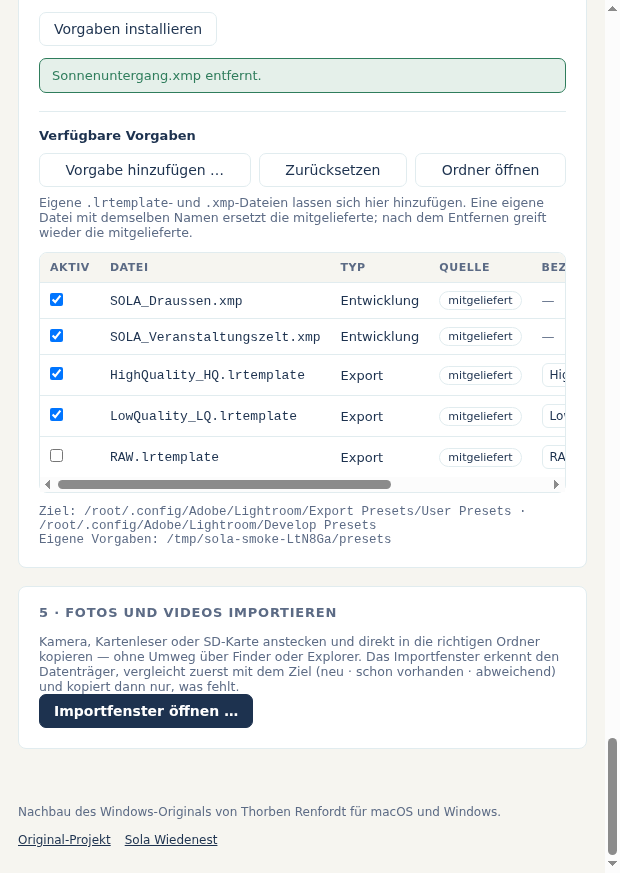
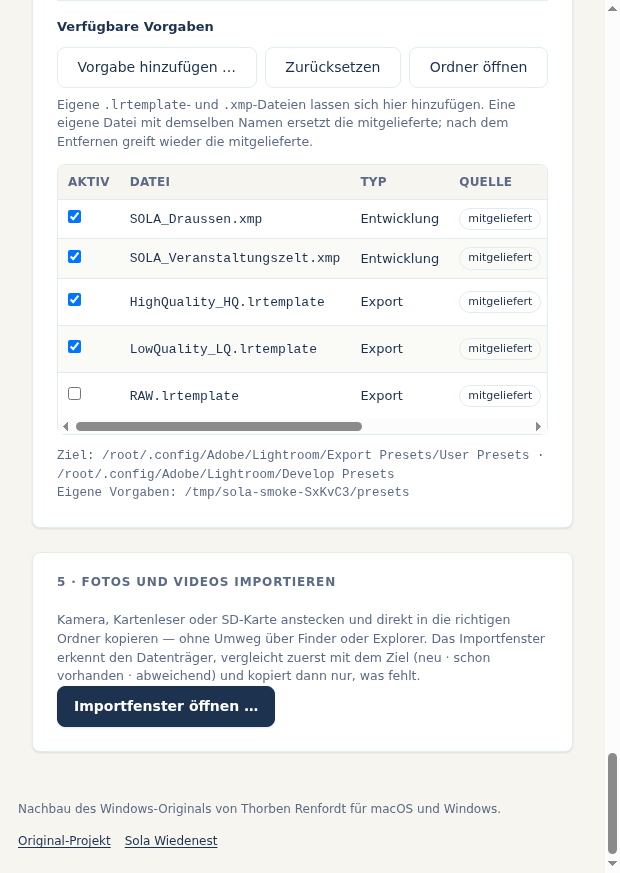
UI-Feinschliff: Spacing-System, moderne Details, Barrierefreiheit
Design-Durchgang über beide Fenster, weiter auf Basis der Lars-Zumpe-CI:

* Konsistentes 4-px-Spacing-System (Tokens), mehr Luft zwischen Karten und
  Abschnitten, einheitliche Feld- und Button-Höhen (40 px), dezente
  Karten-Schatten, weiche Übergänge.
* Barrierefreiheit (WCAG AA):
  - Sichtbarer, konsistenter Fokusring auf allem Bedienbaren; auf dem dunklen
    Kopf hell, sonst kräftiges Blau.
  - Dunklere Text-Töne für Warnung/Erfolg/Fehler, weil das CI-Amber als Text
    kein AA erreicht; Markenfarbe bleibt für Rahmen und Akzente.
  - Statusregionen (Fortschritt, Meldungen) als aria-live; Tabellenkopf mit
    scope; Aktionsspalte per aria-label benannt; Geräteliste als Gruppe.
  - prefers-reduced-motion abgeschaltet für Animationen.
* Kompakte Kontexte (Namensfelder, Tabellenzellen) behalten schlanke Höhen.
* Seitliches Seiten-Scrollen unterbunden; breite Tabellen scrollen selbst.

Tests und Smoke grün, inkl. der Prüfungen auf kein Seitwärtsscrollen bei
1180/760/620 px.

Claude-Session: https://claude.ai/code/session_012cgrnNFUHDFYyNKqoXLqbx

diff --git a/src/renderer/styles.css b/src/renderer/styles.css
@@ -26,10 +26,29 @@
   --akzent-hell: var(--eis);
   --warnung: #c8892b;
   --warnung-hell: #fbf0de;
+  --warnung-text: #8a5510; /* für Text: Amber selbst erreicht kein AA */
   --fehler: #b04a3f;
   --fehler-hell: #f7e7e4;
+  --fehler-text: #8f382e;
   --erfolg: #2f7d5c;
   --erfolg-hell: #e5f0ea;
+  --erfolg-text: #216046;
+
+  /* Spacing-Skala (4-px-Raster) */
+  --s-1: 4px;
+  --s-2: 8px;
+  --s-3: 12px;
+  --s-4: 16px;
+  --s-5: 20px;
+  --s-6: 24px;
+  --s-8: 32px;
+
+  /* Fokus, Schatten, Übergänge */
+  --fokus: #1d5fbf;
+  --schatten: 0 1px 2px rgba(19, 32, 64, 0.06), 0 1px 3px rgba(19, 32, 64, 0.05);
+  --schatten-hover: 0 2px 6px rgba(19, 32, 64, 0.10), 0 3px 12px rgba(19, 32, 64, 0.08);
+  --tempo: 0.15s;
+
   --radius: 8px;
   --schrift: 'Public Sans', -apple-system, BlinkMacSystemFont, "Segoe UI", Roboto, system-ui, sans-serif;
   --mono: "SF Mono", ui-monospace, SFMono-Regular, Menlo, Consolas, "Liberation Mono", monospace;
@@ -37,6 +56,12 @@
 
 * {
   box-sizing: border-box;
+}
+
+/* Ein Desktop-Fenster scrollt nie seitlich – breite Inhalte (z. B. die
+   Vorgabentabelle) bekommen ihre eigene, waagerechte Bildlaufleiste. */
+html {
+  overflow-x: hidden;
 }
 
 body {
@@ -821,4 +846,263 @@ fieldset {
 .kachel {
   background: #fff;
   border-color: var(--eis);
+}
+
+/* ========================================================================= *
+ *  Modernisierung & Barrierefreiheit (WCAG AA)                              *
+ *  Feinschliff für Abstände, Fokus, Kontrast und Bedienbarkeit.            *
+ * ========================================================================= */
+
+body {
+  line-height: 1.5;
+  text-rendering: optimizeLegibility;
+}
+
+::selection {
+  background: var(--eis);
+  color: var(--navy);
+}
+
+/* Sichtbarer, konsistenter Fokusring auf allem Bedienbaren – Grundlage der
+   Tastaturbedienung. Auf dem dunklen Kopf hell, sonst kräftiges Blau. */
+a:focus-visible,
+button:focus-visible,
+input:focus-visible,
+select:focus-visible,
+summary:focus-visible,
+[tabindex]:focus-visible,
+.geraet:focus-visible {
+  outline: 3px solid var(--fokus);
+  outline-offset: 2px;
+  border-radius: 6px;
+}
+
+.kopf a:focus-visible,
+.kopf button:focus-visible {
+  outline-color: var(--eis);
+}
+
+/* Weiche Übergänge – nur, wenn die Person keine Reduktion wünscht. */
+@media (prefers-reduced-motion: no-preference) {
+  .knopf,
+  .geraet,
+  input,
+  select,
+  .meldung button,
+  .sola,
+  .kachel {
+    transition: background-color var(--tempo) ease, border-color var(--tempo) ease,
+      color var(--tempo) ease, box-shadow var(--tempo) ease, transform var(--tempo) ease;
+  }
+}
+
+/* --- Layout-Rhythmus ----------------------------------------------------- */
+
+main {
+  gap: var(--s-6);
+  padding: var(--s-6) var(--s-8) var(--s-8);
+}
+
+.karte {
+  padding: var(--s-5) var(--s-6) var(--s-6);
+  box-shadow: var(--schatten);
+}
+
+.karte h2 {
+  margin-bottom: var(--s-5);
+  font-size: 12px;
+  letter-spacing: 0.07em;
+  color: var(--schiefer);
+}
+
+/* --- Knöpfe: klare Hierarchie, große Ziele, spürbares Feedback ----------- */
+
+.knopf {
+  min-height: 40px;
+  padding: 9px 16px;
+  border-radius: var(--radius);
+  border-width: 1.5px;
+}
+
+.knopf:hover:not(:disabled) {
+  border-color: var(--navy);
+  background: var(--eis);
+}
+
+.knopf:active:not(:disabled) {
+  transform: translateY(1px);
+}
+
+.knopf-primaer,
+.knopf-primaer:hover:not(:disabled) {
+  color: #fff;
+}
+
+.knopf-primaer {
+  background: var(--navy);
+  border-color: var(--navy);
+  box-shadow: var(--schatten);
+}
+
+.knopf-primaer:hover:not(:disabled) {
+  background: var(--deep);
+  border-color: var(--deep);
+}
+
+/* --- Formularfelder: gleiche Höhe, ruhiger Fokus ------------------------- */
+
+input[type='text'],
+input[type='date'],
+select {
+  min-height: 40px;
+  padding: 9px 11px;
+  border-width: 1.5px;
+}
+
+input[type='text']:hover:not(:disabled),
+select:hover:not(:disabled) {
+  border-color: var(--stahl);
+}
+
+.namen-liste input {
+  min-height: 32px;
+}
+
+/* Beschriftungen etwas kräftiger und mit Luft. */
+.feld > span,
+legend {
+  color: var(--schiefer);
+  letter-spacing: 0.02em;
+}
+
+/* --- Meldungen & Status: AA-taugliche Textfarben ------------------------- */
+
+.meldung {
+  border-width: 1.5px;
+  border-radius: var(--radius);
+  padding: 11px 14px;
+}
+
+.meldung-warnung {
+  color: var(--warnung-text);
+}
+
+.meldung-fehler {
+  color: var(--fehler-text);
+}
+
+.meldung-erfolg {
+  color: var(--erfolg-text);
+}
+
+.warn {
+  color: var(--warnung-text);
+}
+
+.fortschritt,
+[role='status'] {
+  min-height: 20px;
+}
+
+/* --- Kacheln & Statusabzeichen ------------------------------------------ */
+
+.kachel {
+  box-shadow: var(--schatten);
+  border-radius: var(--radius);
+}
+
+.kachel-neu .zahl {
+  color: var(--erfolg-text);
+}
+
+.kachel-anders .zahl {
+  color: var(--warnung-text);
+}
+
+.kat {
+  padding: 2px 10px;
+}
+
+.kat-neu {
+  color: var(--erfolg-text);
+}
+
+.kat-anders {
+  color: var(--warnung-text);
+}
+
+/* --- Gerätekarten: fühlbar anklickbar, klarer aktiver Zustand ----------- */
+
+.geraet {
+  min-height: 52px;
+  box-shadow: var(--schatten);
+}
+
+@media (prefers-reduced-motion: no-preference) {
+  .geraet:hover {
+    transform: translateY(-1px);
+    box-shadow: var(--schatten-hover);
+  }
+}
+
+.geraet.aktiv {
+  border-width: 2px;
+  box-shadow: var(--schatten);
+}
+
+/* --- Vergleichstabelle: Zeilen-Hover und Zebra für die Lesbarkeit ------- */
+
+.vorgaben-tabelle tbody tr:nth-child(even) {
+  background: color-mix(in srgb, var(--papier) 55%, #fff);
+}
+
+.import-tabelle tbody tr:hover {
+  background: var(--eis);
+}
+
+.vorgaben-tabelle th {
+  color: var(--schiefer);
+  font-size: 12px;
+  letter-spacing: 0.02em;
+}
+
+/* --- Links: erkennbar und fokussierbar ---------------------------------- */
+
+.fuss a {
+  color: var(--navy);
+  text-underline-offset: 2px;
+}
+
+.fuss a:hover {
+  text-decoration-thickness: 2px;
+}
+
+
+/* Fokusring konsistent über die spezifischere Basisregel legen. */
+.knopf:focus-visible,
+input:focus-visible,
+select:focus-visible {
+  outline: 3px solid var(--fokus);
+  outline-offset: 2px;
+}
+
+.kopf .knopf:focus-visible {
+  outline-color: var(--eis);
+}
+
+/* Kompakte Kontexte behalten ihre schlanke Höhe – die globale Feldhöhe von
+   40px gilt nur den Hauptformularfeldern, nicht Listen und Tabellenzellen. */
+.namen-liste input {
+  min-height: 34px;
+  padding: 6px 9px;
+}
+
+.meta-felder input {
+  min-height: 30px;
+  padding: 4px 8px;
+}
+
+.knopf-klein {
+  min-height: 30px;
+  padding: 5px 12px;
 }

diff --git a/src/renderer/import.html b/src/renderer/import.html
@@ -23,7 +23,7 @@
             <button type="button" id="btnGeraeteAktualisieren" class="knopf knopf-still">Geräte aktualisieren</button>
             <button type="button" id="btnQuelleOrdner" class="knopf">Ordner wählen …</button>
           </div>
-          <div class="geraete" id="geraeteListe"></div>
+          <div class="geraete" id="geraeteListe" role="group" aria-label="Erkannte Datenträger"></div>
           <p class="hinweis">Gewählte Quelle:</p>
           <code class="pfad" id="quelleAnzeige">Noch keine Quelle gewählt</code>
         </section>
@@ -64,19 +64,19 @@
         <div class="zeile zeile-umbruch">
           <button type="button" id="btnVergleichen" class="knopf knopf-still">Vergleichen</button>
           <button type="button" id="btnKopieren" class="knopf knopf-primaer" disabled>Kopieren</button>
-          <span class="hinweis" id="fortschritt"></span>
+          <span class="hinweis" id="fortschritt" role="status" aria-live="polite"></span>
         </div>
-        <div class="meldungen" id="meldungen"></div>
+        <div class="meldungen" id="meldungen" role="status" aria-live="polite"></div>
         <div class="kacheln" id="kacheln"></div>
 
         <div class="tabelle-scroll import-tabelle" id="ergebnisBox" hidden>
           <table class="vorgaben-tabelle">
             <thead>
               <tr>
-                <th class="spalte-kat">Status</th>
-                <th>Datei</th>
-                <th>Datum</th>
-                <th>Ziel</th>
+                <th class="spalte-kat" scope="col">Status</th>
+                <th scope="col">Datei</th>
+                <th scope="col">Datum</th>
+                <th scope="col">Ziel</th>
               </tr>
             </thead>
             <tbody id="ergebnisListe"></tbody>

diff --git a/src/renderer/index.html b/src/renderer/index.html
@@ -42,9 +42,9 @@
         <div class="zeile zeile-umbruch">
           <button type="button" id="btnVorschau" class="knopf knopf-still">Vorschau aktualisieren</button>
           <button type="button" id="btnErstellen" class="knopf knopf-primaer" disabled>Ordnerstruktur erstellen</button>
-          <span class="hinweis" id="planInfo"></span>
+          <span class="hinweis" id="planInfo" aria-live="polite"></span>
         </div>
-        <div class="meldungen" id="meldungen"></div>
+        <div class="meldungen" id="meldungen" role="status" aria-live="polite"></div>
         <details class="vorschau" id="vorschauBox">
           <summary>Vorschau <span id="vorschauAnzahl"></span></summary>
           <pre id="vorschauBaum"></pre>
@@ -91,12 +91,12 @@
             <table class="vorgaben-tabelle">
               <thead>
                 <tr>
-                  <th class="spalte-aktiv">Aktiv</th>
-                  <th>Datei</th>
-                  <th>Typ</th>
-                  <th>Quelle</th>
-                  <th>Bezeichnung / Kurzform</th>
-                  <th class="spalte-aktion"></th>
+                  <th class="spalte-aktiv" scope="col">Aktiv</th>
+                  <th scope="col">Datei</th>
+                  <th scope="col">Typ</th>
+                  <th scope="col">Quelle</th>
+                  <th scope="col">Bezeichnung / Kurzform</th>
+                  <th class="spalte-aktion" scope="col" aria-label="Aktion"></th>
                 </tr>
               </thead>
               <tbody id="vorgabenListe"></tbody>
